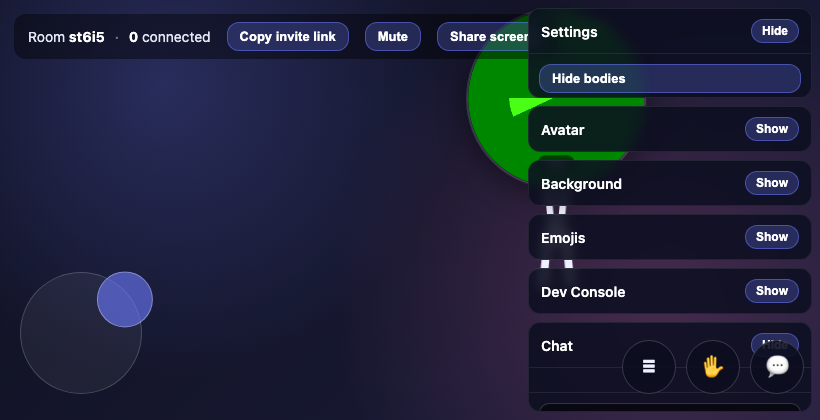
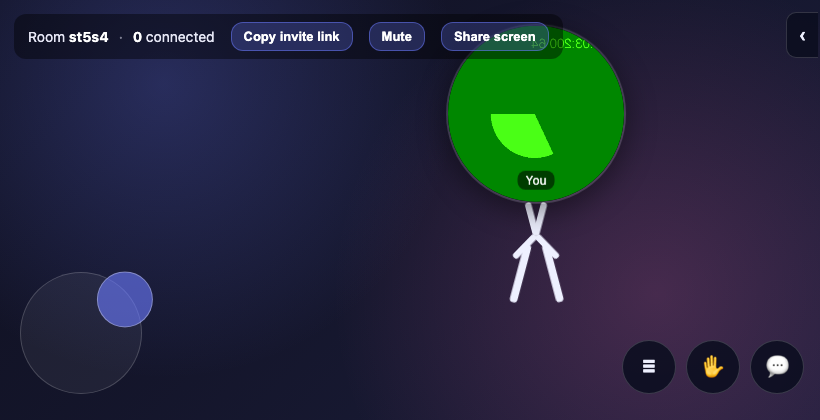
Make the sidebar fully collapsible off-screen (closes #79)
Per review, folded into the touch-controls work: the whole right sidebar can
slide fully off the screen via an edge tab, and defaults collapsed on
small/touch screens so the canvas isn't covered.

- An edge tab on the sidebar's left side toggles body.sidebar-collapsed, which
  translateX(100%)s the panel off-screen (the tab stays at the screen edge to
  pull it back). Default collapsed when pointer:coarse or innerWidth < 760;
  open otherwise.

Verified headless: on a 430px touch viewport the sidebar starts off-screen
(a section's rect is past the viewport) with the tab visible; the tab toggles
it on/off; on a 1200px desktop it defaults open. No console errors.

Changed region(s): [[0.0915, 0.031, 1.0, 0.9905], [0.9146, 0.031, 0.9756, 0.1238]]

diff --git a/style.css b/style.css
@@ -846,6 +846,34 @@ body {
   z-index: 7;
   /* transparent gaps let clicks fall through to the stage */
   pointer-events: none;
+  transition: transform 0.25s ease;
+}
+
+/* Collapsed: slide the whole sidebar off-screen (the edge tab stays visible). */
+body.sidebar-collapsed .sidebar {
+  transform: translateX(100%);
+}
+
+.sidebar-toggle {
+  position: absolute;
+  left: -34px;
+  top: 12px;
+  width: 32px;
+  height: 46px;
+  margin: 0;
+  padding: 0;
+  border-radius: 10px 0 0 10px;
+  background: rgba(12, 14, 32, 0.92);
+  border: 1px solid rgba(255, 255, 255, 0.16);
+  border-right: none;
+  color: #eef0ff;
+  font-size: 18px;
+  line-height: 1;
+  cursor: pointer;
+  pointer-events: auto;
+  display: flex;
+  align-items: center;
+  justify-content: center;
 }
 
 .sidebar[hidden] {

diff --git a/main.js b/main.js
@@ -3297,6 +3297,22 @@ document.getElementById("draw-done").addEventListener("click", exitDraw);
 toggleScreenBtn.addEventListener("click", toggleScreen);
 toggleMicBtn.addEventListener("click", toggleMute);
 
+// ---- Sidebar: slide the whole panel off-screen and back ----
+const sidebarToggleBtn = document.getElementById("sidebar-toggle");
+function updateSidebarToggle() {
+  // Collapsed → a "pull-in" arrow at the screen edge; open → a "push-out" arrow.
+  sidebarToggleBtn.textContent = document.body.classList.contains("sidebar-collapsed") ? "‹" : "›";
+}
+sidebarToggleBtn.addEventListener("click", () => {
+  document.body.classList.toggle("sidebar-collapsed");
+  updateSidebarToggle();
+});
+// Default it collapsed on small / touch screens so the canvas isn't covered.
+if ((window.matchMedia && window.matchMedia("(pointer: coarse)").matches) || window.innerWidth < 760) {
+  document.body.classList.add("sidebar-collapsed");
+}
+updateSidebarToggle();
+
 // ---- Touch controls (joystick + buttons), shown on coarse-pointer devices ----
 (function initTouch() {
   const coarse = window.matchMedia && window.matchMedia("(pointer: coarse)").matches;

diff --git a/index.html b/index.html
@@ -159,6 +159,8 @@
     <!-- Right sidebar: dev console + chat, each independently collapsible
          (shown once joined) -->
     <aside id="sidebar" class="sidebar" hidden>
+      <!-- Edge tab to slide the whole sidebar off-screen and back -->
+      <button id="sidebar-toggle" class="sidebar-toggle" aria-label="Toggle panel">›</button>
       <!-- Settings: room/AV toggles, moved off the top bar -->
       <section id="settingspanel" class="sidesection" aria-label="Settings">
         <header class="section-header">

diff --git a/README.md b/README.md
@@ -305,12 +305,15 @@ The long-term direction is to grow the meeting from "a call you can move your we
   broadcast like presence and handed to **late joiners** — and your own button
   reads **Unmute**. The choice **persists across reloads**.
 
-### Milestone 39 — Touch controls ✅
+### Milestone 39 — Touch controls + collapsible sidebar ✅
 - On touch / coarse-pointer devices (or with **`?touch=1`**), an **on-screen
   joystick** drives your avatar (analog — a partial push gives partial speed,
   blended with WASD), and a small button bar gives touch access to the
   keyboard-only bits: **≡** opens the actions menu, **💬** opens chat, **✋**
   picks up / drops a card. Desktop/keyboard behaviour is unchanged.
+- The whole **right sidebar can slide fully off-screen** via an edge tab, and
+  **defaults collapsed on small/touch screens** so the canvas isn't covered —
+  pull it back in on demand. Defaults open on desktop.
 
 ### Future milestones
 - More actions; move/delete cards. Mini-games, emotes, and more (see the open issues).